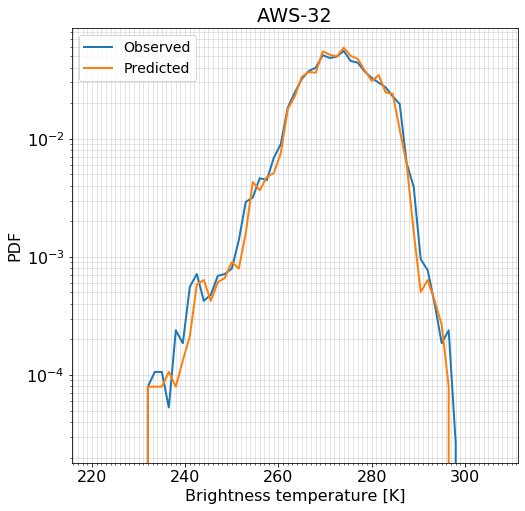
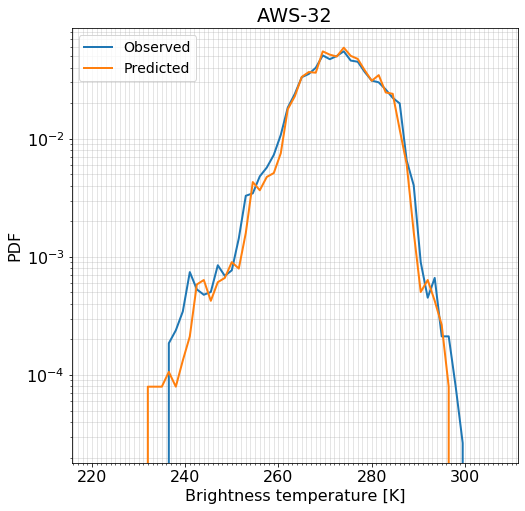
updated tables, figures with new channel configurations

diff --git a/Report/aws_325ghz_study.tex b/Report/aws_325ghz_study.tex
@@ -1127,33 +1127,29 @@ A detailed description of QRNN can be found in \citet{pfreundschuh:aneur:18}.
 
 \subsubsection{Training}
 %  
-In this section, QRNNs are used to correct the cloud impact in each of 183\,GHz channels using TBs from all available channels of 325\,GHz. We assess the performance of the scheme using both three channel and four channel options of 325\,GHz. A separate QRNN is used for each of the 183\,GHz channels. For example, to predict clear-sky TBs from AWS-34, the training data is TBs from all channels of 325\,GHz.
+In this section, QRNNs are used to correct the cloud impact in each of 183\,GHz channels using TBs from all available channels of 325\,GHz. A separate QRNN is used for each of the 183\,GHz channels. For example, to predict clear-sky TBs from AWS-34, the training data is TBs from all channels of 325\,GHz. We assess the performance of the scheme using both three channel and four channel options of 325\,GHz. Two configurations for three channel option are described in Sec.~\ref{sec:}, and both have been used to train QRNN separately. Thus, for each channel of 183\,GHz, we have a set of three predictions: one from four channel option, and two from the old and new configurations of the three channel option. Further in the text, the old and new three channel configurations are labeled as "three-a" and "three-b".
 
 To develop the QRNN based correction scheme, we use the same dataset as in the simple scheme . Out of 125\,000 simulations, 90\% are used to train the model, while the rest 10\% is used to evaluate the model's performance during training. In the training process, noise is added to the input according to Eqn~\ref{eq:noise}, every time the training data is exposed to the model. This ensures that the model is exposed to a new dataset on every iteration. Before training, the input data is normalized with mean and standard deviation.
 
-The structure of the QRNN is defined by various hyper-parameters which are tuned to achieve a high-performing model. These parameters determine the structure of the neural network and how the network is trained. We performed a grid search to determine structural parameters: depth (number of hidden layers) and width (number of neurons). The quantile loss for the $\tau = 0.5$ (median) is used to compare the performance of different hyper-parameter configurations. Figure~\ref{fig:quantile_loss_median} shows the mean quantile loss when QRNN is trained for predicting clear-sky values for AWS-34. Increasing both layer width and depth has a positive impact on performance of the network, however for four hidden layers, increasing the layer width leads to only small performance gains. On basis of these results, a neural network with four hidden layer and 128 neurons was chosen for training.
+The structure of the QRNN is defined by various hyper-parameters which are tuned to achieve a high-performing model. These parameters determine the structure of the neural network and how the network is trained. We performed a grid search to determine structural parameters: depth (number of hidden layers) and width (number of neurons). The mean quantile loss is used to compare the performance of different hyper-parameter configurations. Figure~\ref{fig:quantile_loss} shows the mean quantile loss when QRNN is trained for predicting clear-sky values for AWS-34 using four channel option. Increasing both layer width and depth has a positive impact on performance of the network, however for four hidden layers, increasing the layer width leads to only small performance gains. On basis of these results, a neural network with four hidden layer and 128 neurons was chosen for training. For the training, we obtained the best performance when trained with a multiple learning rate schedule. We start the training process with a initial learning rate and after a certain number of epochs, the training is updated with a new initial learning rate. We chose the three training schedules with initial learning rates = 0.01, 0.001, 0.0001 respectively, updated after 20 epochs. The batch size was set to 256 samples. 
 
-For the training, we obtained the best performance when trained with a multiple learning rate schedule. We start the training process with a initial learning rate and after a certain number of epochs, the training is updated with a new initial learning rate. We chose the three training schedules with initial learning rates = 0.01, 0.001, 0.0001 respectively, updated after 20 epochs. The batch size was set to 256 samples.
+The grid search was also conducted for both three channel options, and an identical QRNN structure, as described for the four channel option, was found to have the best performance. 
 %
 \begin{figure}[!ht]
 	\centering
-	\includegraphics[height=85mm]{quantile_loss_median.png}
+	\includegraphics[height=85mm]{quantile_loss.png}
 	\caption{The mean quantile loss for $\tau = 0.5$ with different configurations of layer width and hidden layers ($n_h$).}
-	\label{fig:quantile_loss_median}
+	\label{fig:quantile_loss}
 \end{figure}
 %
 \subsection{Prediction accuracy}
 %
-We train the QRNN to predict the quantiles $x_{\tau}$, for median, $\pm 1\sigma$ and $\pm 2 \sigma$ ($\tau$ = 0.05, 0.32, 0.5 , 0.68, 0.95). The expectation value of the posterior distribution is assumed to be the best estimate for the predicted clear-sky value.
+We train the QRNN to predict the quantiles $x_{\tau}$, for median, $\pm 1\sigma$, $\pm 2 \sigma$ and  $\pm 3 \sigma$ ($\tau$ = 0.002, 0.03, 0.16, 0.5, 0.84, 0.97, 0.998). The expectation value of the posterior distribution is assumed to be the best estimate for the predicted clear-sky value. To analyse the prediction accuracy, a testing dataset is constructed by randomly drawing 25\,000 cases from the simulation dataset. Noise is added to each simulation to mimic a new measurement dataset. 
 
-To analyse the prediction accuracy, a testing dataset is constructed by randomly drawing 25\,000 cases from the simulation dataset. Noise is added to each simulation to mimic a new measurement dataset. The distributions of the predicted clear-sky noise-free values for each of the 183\, GHz channels are shown in Figure~\ref{fig:pdf:qrnn}. The simulated clear-sky distributions are also plotted for reference. It is evident from these results that QRNN is successful in predicting the clear-sky values from measurements. 
+The distributions of the predicted clear-sky noise-free values for each of the 183\, GHz channels are shown in Figure~\ref{fig:pdf:qrnn}. The simulated clear-sky distributions are also plotted for reference. For these results, the four channel option was used to train the QRNN. The distributions show that QRNN is overall successful in predicting the clear-sky cases. For all channels, the simulations and predictions have a good agreement for the main peak of the distribution. However, for AWS-32, AWS-33 and  AWS-34, QRNN seems to predict slightly colder TBs. These results give an indication of the behavior of QRNN, but for a detailed analysis of the prediction accuracy, we make a quantitative assessment of the errors. 
 
+Figure~\ref{fig:qrnn_C34:deviations} shows the error distributions of the measurements and predicted clear-sky TBs for AWS-34 using three (three-b) and four channel options of 325\,GHz. Measurements with cases with $Tb2 - Tb1 > -15$\,K are assumed to be too-cloudy and are filtered out. Both the three channel and four channel QRNN model are successful in predicting the clear-sky noise-free value for AWS-34, and the resulting error distribution is symmetric. The statistics corresponding to these distributions are provided in Table~\ref{tab:qrnn:C34}. . The fraction of cases rejected as "too-cloudy" is also provided under ``fraction rejected''. For AWS-34, the predictions from all three QRNN models are comparable. 
 
-Figure~\ref{fig:qrnn_C34:deviations} shows the error distributions of the measurements and predicted clear-sky TBs for AWS-34 using both three and four channel options of 325\,GHz. Measurements with cases with $Tb2 - Tb1 > -15$\,K are assumed to be too-cloudy and are filtered out. Both the three channel and four channel QRNN model are successful in predicting the clear-sky noise-free value for AWS-34, and the resulting error distribution is symmetric. The statistics corresponding to these distributions are provided in Table~\ref{tab:qrnn:C34}. For AWS-34, the performance of both three and four option 325\,GHz is comparable. The average bias, standard 
-
-
-The fraction of cases rejected as "too-cloudy" is also provided under ``fraction rejected''. 
-   c
   
 
 
@@ -1184,13 +1180,18 @@ The fraction of cases rejected as "too-cloudy" is also provided under ``fraction
 	Dataset  		  &   bias &   std &   skewness & fraction  \\
 	&   [K]  &   [K] & [-] & rejected [\%]\\
 		\hline
-Noise                     & -0.006 & 0.634 &              0.008 &      - \\
-uncorrected               & -0.678 & 3.678 &            -10.320 &     - \\
-corrected (three channel) &  0.079 & 0.620 &             -0.414 &      2.730 \\
-corrected (four channel)  &  0.075 & 0.619 &             -0.416 &      2.957 \\
+Noise                       &  0.003 & 0.641 &             -0.001 &      - \\
+uncorrected                 & -0.677 & 3.673 &            -10.321 &      - \\
+corrected (three-a) 		&  0.094 & 0.624 &             -0.629 &      2.750 \\
+corrected (three-b) 		&  0.100 & 0.652 &             -0.543 &      2.582 \\
+corrected (four)   			&  0.111 & 0.620 &             -0.659 &      2.985 \\
+
+
+
+
 		\hline
 	\end{tabular}
-	\caption{ Bias, standard deviation and measure of skewness for the error distributions of the dataset shown in Figure~\ref{fig:qrnn_C34:deviations}}
+	\caption{ Bias, standard deviation and measure of skewness for the error distributions of the dataset (AWS-34) shown in Figure~\ref{fig:qrnn_C34:deviations}}
 	\label{tab:qrnn:C34}
 \end{table}
 
@@ -1201,10 +1202,15 @@ corrected (four channel)  &  0.075 & 0.619 &             -0.416 &      2.957 \\
 	Dataset  		  &   bias &   std &   skewness & fraction  \\
 	&   [K]  &   [K] & [-] & rejected [\%]\\
 		\hline
-Noise                     &  0.004 & 0.455 &              0.006 &      - \\
-uncorrected               & -1.341 & 5.905 &             -7.482 &      - \\
-corrected (three channel) & -0.026 & 0.829 &             -2.110 &      4.902 \\
-corrected (four channel)  & -0.027 & 0.828 &             -2.187 &      4.906 \\
+Noise                       & -0.004 & 0.450 &             -0.030 &      - \\
+uncorrected                 & -1.343 & 5.908 &             -7.484 &      - \\
+corrected (three-a)  		&  0.019 & 0.889 &             -3.519 &      4.906 \\	 
+corrected (three-b)  		& -0.008 & 0.850 &             -3.326 &      4.926 \\			
+corrected (four)    		& -0.011 & 0.878 &             -3.030 &      4.930 \\
+
+
+
+
 		\hline
 	\end{tabular}
 	\caption{ Same as Table~\ref{tab:qrnn:C34}, but for channel AWS-32.}
@@ -1218,13 +1224,13 @@ corrected (four channel)  & -0.027 & 0.828 &             -2.187 &      4.906 \\
 	Dataset  		  &   bias &   std &   skewness & fraction  \\
 	&   [K]  &   [K] & [-] & rejected [\%]\\
 		\hline
-Noise                     &  0.002 & 0.451 &             -0.017 &     - \\
-uncorrected               & -0.981 & 4.706 &             -8.755 &     - \\
- corrected (three channel)&  0.053 & 0.573 &             -0.593 &      4.189 \\
-corrected (four channel)  &  0.035 & 0.572 &             -0.554 &      4.280 \\
-
-
+Noise                       & -0.005 & 0.450 &             -0.004 &      - \\
+uncorrected                 & -0.982 & 4.703 &             -8.778 &      - \\
+corrected (three-a) 		&  0.088 & 0.583 &             -0.959 &      4.197 \\
+corrected (three-b)  		& -0.030 & 0.612 &             -0.756 &      4.205 \\
+corrected (four)            &  0.106 & 0.591 &             -1.006 &      4.212 \\
 		\hline
+		
 	\end{tabular}
 	\caption{ Same as Table~\ref{tab:qrnn:C34}, but for channel AWS-33.}
 	\label{tab:qrnn:C33}
@@ -1236,11 +1242,13 @@ corrected (four channel)  &  0.035 & 0.572 &             -0.554 &      4.280 \\
 	Dataset  		  &   bias &   std &   skewness & fraction  \\
 	&   [K]  &   [K] & [-] & rejected [\%]\\
 		\hline
-Noise                      &  0.002 & 0.626 &             -0.003 &      - \\
-uncorrected                & -0.428 & 2.661 &            -12.451 &      - \\
-corrected (three channel)  &  0.031 & 0.600 &             -0.303 &      1.451 \\
-corrected (four channel)   &  0.049 & 0.581 &             -0.335 &      1.781 \\
-		\hline
+
+Noise                      &  0.003 & 0.626 &             -0.009 &      - \\
+uncorrected                & -0.428 & 2.653 &            -12.492 &      - \\
+corrected (three-a) 	   &  0.060 & 0.610 &             -0.281 &      1.439 \\
+corrected (three-b) 	   &  0.097 & 0.618 &              0.011 &      1.331 \\
+corrected (four)   		   &  0.042 & 0.591 &             -0.351 &      1.821 \\
+	\hline
 	\end{tabular}
 	\caption{ Same as Table~\ref{tab:qrnn:C34}, but for channel AWS-35.}
 	\label{tab:qrnn:C35}
@@ -1253,17 +1261,29 @@ corrected (four channel)   &  0.049 & 0.581 &             -0.335 &      1.781 \\
 	Dataset  		  &   bias &   std &   skewness & fraction  \\
 	&   [K]  &   [K] & [-] & rejected [\%]\\
 		\hline
-Noise                     & -0.000 & 0.888 &              0.005 &      - \\
-uncorrected               & -0.269 & 2.059 &            -11.899 &      - \\
- corrected (three channel)&  0.064 & 0.797 &             -0.138 &      1.263 \\
-corrected (four channel)  &  0.057 & 0.765 &             -0.120 &      1.148 \\
+Noise                       & 0.000 & 0.888 &              0.005 &      - \\
+uncorrected                 & -0.269 & 2.059 &            -11.899 &      - \\
+corrected (three-a) 		&  0.062 & 0.797 &             -0.139 &      1.279 \\
+corrected (three-b) 		&  0.092 & 0.770 &             -0.075 &      1.124 \\
+corrected (four)   			&  0.056 & 0.779 &             -0.172 &      1.156 \\
+
+
 		\hline
 	\end{tabular}
 	\caption{ Same as Table~\ref{tab:qrnn:C34}, but for channel AWS-36.}
 	\label{tab:qrnn:C36}
 \end{table}
 
-\subsection{Uncertainity estimation}
+\subsection{Uncertainty estimation}
+%
+\begin{figure}[!ht]
+	\centering
+	\includegraphics[height=85mm]{prediction_uncertainty.png}
+	\caption{The prediction uncertainty with respect to quantiles for randomly selected 2400 cases.}
+	\label{fig:prediction_uncertainty}
+\end{figure}
+
+
 \section{Discussion}
 
 \subsection{229 vs.\ 325\,GHz}

diff --git a/QRNN/random_split.py b/QRNN/random_split.py
@@ -1,0 +1,88 @@
+#!/usr/bin/env python3
+# -*- coding: utf-8 -*-
+"""
+Created on Mon Jun  1 13:18:09 2020
+
+@author: inderpreet
+"""
+
+
+import numpy as np
+import xarray
+import os
+import matplotlib.pyplot as plt
+
+def get_TB(TB, TB0, ic, cases):
+    
+    x_train = TB[:, :, cases[:int(0.9*ic.shape[0])]]
+    x_train0 = TB0[:, :, cases[:int(0.9*ic.shape[0])]]
+    
+    x_test  = TB[:, :, cases[int(0.8*ic.shape[0]):]]
+    x_test0 = TB0[:, :, cases[int(0.8*ic.shape[0]):]]
+    
+    
+    x_val0 = TB0[:, :, cases[int(0.9*ic.shape[0]):]]
+    x_val = TB[:, :, cases[int(0.9*ic.shape[0]):]]
+    
+    return x_test0, x_test
+
+
+y = xarray.open_dataset(os.path.expanduser('~/Dendrite/Projects/AWS-325GHz/TB_AWS/TB_AWS_m60_p60_four.nc'))
+TB0 = y.TB
+cases = TB0.cases.values
+
+y = xarray.open_dataset(os.path.expanduser('~/Dendrite/Projects/AWS-325GHz/TB_AWS/TB_AWS_m60_p60_noise_four.nc'))
+TB = y.TB_noise
+
+ic = np.arange(0, len(cases), 1)
+np.random.shuffle(ic)
+
+x_test0, x_test = get_TB(TB, TB0, ic, cases)
+
+x_test.to_netcdf(os.path.expanduser('~/Dendrite/Projects/AWS-325GHz/TB_AWS/testing_data_noise_four.nc'), 'w')
+x_test0.to_netcdf(os.path.expanduser('~/Dendrite/Projects/AWS-325GHz/TB_AWS/testing_data_four.nc'), 'w')
+
+
+#=====================================================================================================
+#Repeat same for three channel option A with same shuffled indices
+#=====================================================================================================
+
+y = xarray.open_dataset(os.path.expanduser('~/Dendrite/Projects/AWS-325GHz/TB_AWS/TB_AWS_m60_p60_three_a.nc'))
+TB0 = y.TB
+
+y = xarray.open_dataset(os.path.expanduser('~/Dendrite/Projects/AWS-325GHz/TB_AWS/TB_AWS_m60_p60_noise_three_a.nc'))
+TB = y.TB_noise
+
+x_test0, x_test = get_TB(TB, TB0, ic, cases)
+
+x_test.to_netcdf(os.path.expanduser('~/Dendrite/Projects/AWS-325GHz/TB_AWS/testing_data_noise_three_a.nc'), 'w')
+x_test0.to_netcdf(os.path.expanduser('~/Dendrite/Projects/AWS-325GHz/TB_AWS/testing_data_three_a.nc'), 'w')
+
+
+#=====================================================================================================
+#Repeat same for three channel option B with same shuffled indices
+#=====================================================================================================
+
+y = xarray.open_dataset(os.path.expanduser('~/Dendrite/Projects/AWS-325GHz/TB_AWS/TB_AWS_m60_p60_three_b.nc'))
+TB0 = y.TB
+
+y = xarray.open_dataset(os.path.expanduser('~/Dendrite/Projects/AWS-325GHz/TB_AWS/TB_AWS_m60_p60_noise_three_b.nc'))
+TB = y.TB_noise
+
+x_test0, x_test = get_TB(TB, TB0, ic, cases)
+
+x_test.to_netcdf(os.path.expanduser('~/Dendrite/Projects/AWS-325GHz/TB_AWS/testing_data_noise_three_b.nc'), 'w')
+x_test0.to_netcdf(os.path.expanduser('~/Dendrite/Projects/AWS-325GHz/TB_AWS/testing_data_three_b.nc'), 'w')
+
+
+
+
+
+
+dtb = x_test[4, 1, :] - x_test0[4, 0, :] 
+
+bins = np.arange(-30, 5, 0.2)
+hist = np.histogram(dtb, bins, density = True)
+fig, ax = plt.subplots()
+ax.plot(bins[:-1], hist[0])
+ax.set_yscale('log')
